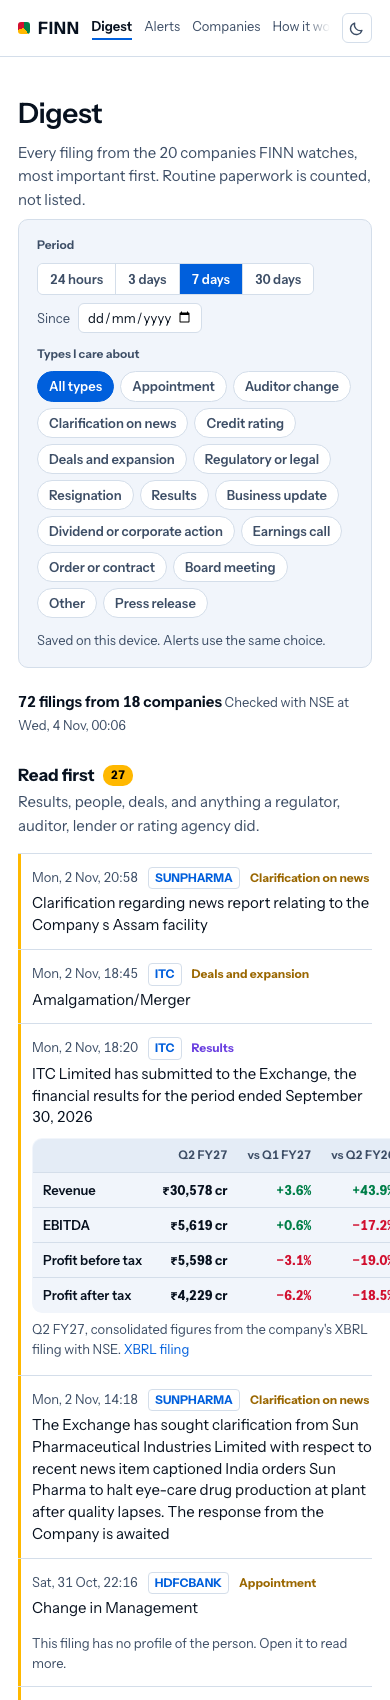
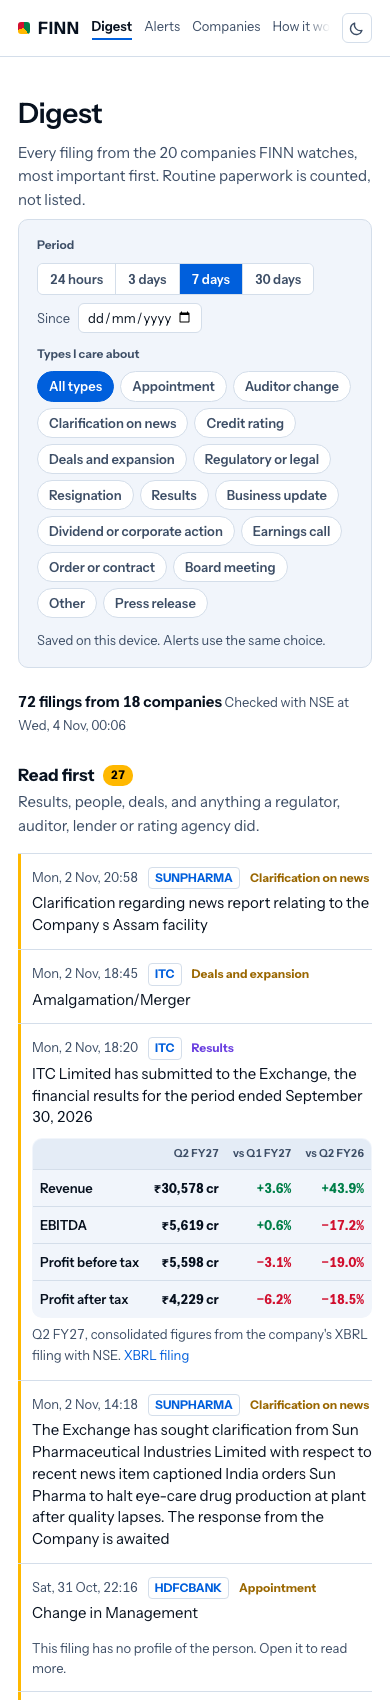
Add README, covering note, screenshots and the exported build conversation
- README: what FINN is, a two-minute phone tour, how each point of the brief maps to the product,
  architecture, models and cost, how to run it.
- docs/WRITEUP.md: the covering note (decisions, trade-offs, what was left out, next steps).
- scripts/export_build_history.py exports the Claude Code conversation to Markdown with secrets removed
  (values from .env and key-shaped strings); docs/build-history/ holds the export.
- How it works: the digest, your own alerts and appointee profiles, and the 2-hourly schedule, in all
  seven languages. Results card fits a phone screen.

Changed region(s): [[0.0615, 0.6547, 1.0, 0.9976], [0.7692, 0.9665, 0.8923, 0.9976], [0.6769, 0.9665, 0.7385, 0.9976]]

diff --git a/web/app/globals.css b/web/app/globals.css
@@ -1003,7 +1003,10 @@ button, input, select { font: inherit; color: inherit; }
   .qchart .chart-tick { font-size: 9.5px; }
   .co-year .spark { display: none; }
   .rules-grid { grid-template-columns: minmax(0, 1fr); }
-  .rcard th, .rcard td { padding: 9px 10px; }
+  .rcard table, .rcard.compact table { font-size: var(--s13); }
+  .rcard th, .rcard td, .rcard.compact th, .rcard.compact td { padding: 8px 7px; }
+  .rcard thead th, .rcard tbody th { white-space: normal; }
+  .rcard thead th { font-size: 11px; line-height: 1.25; }
   .site-nav { overflow-x: auto; scrollbar-width: none; flex: 1; padding-right: 16px;
     mask-image: linear-gradient(to right, #000 calc(100% - 24px), transparent); }
   .site-nav::-webkit-scrollbar { display: none; }

diff --git a/README.md b/README.md
@@ -1,0 +1,103 @@
+# FINN: Indian stocks, read for you
+
+**Live:** https://finn-six-roan.vercel.app (built for a phone; open it on one)
+
+FINN watches a 20-company NSE portfolio and tells you what changed and why it matters (push). It also checks what any
+listed company's management promised on its earnings calls against what the company later filed (pull). Every number
+and every quote links to the NSE document it came from. The model reads and copies; code computes every figure and decides every verdict.
+
+<p>
+<img src="docs/screenshots/digest.png" width="200" alt="Digest: filings ranked, with a results card">
+<img src="docs/screenshots/alerts.png" width="200" alt="Alerts with your own thresholds">
+<img src="docs/screenshots/ledger.png" width="200" alt="Promise ledger for Dixon Technologies">
+<img src="docs/screenshots/results.png" width="200" alt="Results card: Revenue, EBITDA, PBT, PAT vs last quarter and a year ago">
+</p>
+
+## Two minutes on a phone
+
+1. **[Digest](https://finn-six-roan.vercel.app/digest?w=7)**: every filing from the 20 companies for the window you pick (24 hours by default).
+   - "Read first" holds results, people changes, deals, and anything a regulator, auditor, lender or rating agency did.
+   - A results filing opens Revenue, EBITDA, PBT and PAT against the quarter before and a year before.
+   - A management change shows who the person is, read from the filing itself.
+   - Routine paperwork is only counted.
+2. **[Alerts](https://finn-six-roan.vercel.app/alerts)**: set your own "unusual". Defaults are a ±5% day and 2× the 50-day volume. The list recomputes instantly over the last 20 sessions.
+3. **[Dixon Technologies, Promises](https://finn-six-roan.vercel.app/c/DIXON#promises)**: 186 things management said they would do, across six calls, each with a verdict.
+   - Open one to see the quote, the transcript page, every later mention, and the XBRL figure it was checked against.
+   - On the **Price** tab, tap a call marker on the chart to see what was promised on that call.
+4. **Any other company**: search, for example `HDFCBANK` (no ledger yet). Prices, results, the results card and filings are there. **Analyse** starts a ledger run for any NSE main-board company (10 to 15 minutes, one at a time).
+
+## What maps to the brief
+
+| Brief | In FINN |
+|---|---|
+| Portfolio of 15–20 | 20 companies across sectors and sizes ([finn/portfolio.py](finn/portfolio.py)), banks and an NBFC included |
+| Ad-hoc research on 3–5, generalising to any ticker | Ledgers for ASIANPAINT, DIXON, KPITTECH, SUPREMEIND, TCS. Analyse runs the same engine on any NSE symbol through a GitHub Actions dispatch |
+| Push: windowed digest | `/digest`: 24 h, 3 d, 7 d, 30 d or since a date; priority fixed by tag; routine collapsed |
+| Push: triggered alerts, configurable | `/alerts`: your ±X% and N× volume, plus filing types you choose. Email and WhatsApp delivery is built ([docs/ALERTS_SETUP.md](docs/ALERTS_SETUP.md)); it switches on once the sending accounts exist |
+| Results: Revenue, EBITDA, PBT, PAT, QoQ and YoY | From the company's XBRL filing, on the company page and under every results filing in the digest |
+| Management change: who is the incoming person | The SEBI Reg 30 "brief profile" from the filing itself (not LinkedIn) |
+| Pull: narrative vs numbers, last four quarters | The promise ledger: guidance from six calls vs XBRL actuals, verdicts by rule |
+| Pull: financial snapshot, trajectory, guidance | Key numbers, 8–9 quarters of bars, "Coming up" (dated promises falling due) |
+| Primary sources only | NSE transcripts, XBRL, bhavcopy, announcements. No news, broker notes or model knowledge |
+| Mobile-first | Built at 390 px first; 7 Indian languages; light and dark |
+
+## How it works
+
+```
+NSE (plain HTTP, ≤1 request/s, every download cached)
+  ├─ bhavcopy (prices, volume, delivery)     ┐
+  ├─ corporate announcements + PDFs          ├─ finn/data/      one client per source
+  ├─ XBRL results (integrated + legacy)      │
+  └─ earnings-call transcripts               ┘
+        │
+        ├─ finn/market/   prices, key numbers, results card, filing tags + priority,
+        │                 big moves, new-appointee profiles                  (no model, except profile layout)
+        └─ finn/ledger/   candidates → classify → thread → resolve → verdict (model classifies and copies;
+                          code checks every quote verbatim, computes every actual, decides every verdict)
+        │
+   finn/llm.py   the only place a model is called: routing, disk cache, strict JSON, cost log
+        │
+GitHub Actions   every 2 h 09:00–21:00 IST + 01:00 IST: rebuild market data, rerun one stale ledger,
+                 commit static JSON, send alerts       │   "Analyse" dispatches ledger.yml for any symbol
+        │
+web/ (Next.js on Vercel, Mumbai)   reads the committed JSON; no database (Upstash only for alert sign-ups)
+```
+
+**Models and cost.** Every model step uses Gemini 3.1 Flash-Lite:
+- classifying sentences;
+- linking promises across calls;
+- reading later mentions;
+- writing one-line explanations;
+- laying out profiles.
+
+The job is narrow (sort and copy, never compute), so a stronger model would add cost without adding accuracy. Every call is cached on disk by a hash of the prompt and schema. So far: 499 calls, 178 of them cache hits; ₹69 at paid rates; ₹0 on the free tier. See `python -c "from finn import llm; print(llm.cost_summary())"`.
+
+**Guards that matter most:**
+- A promise quote must appear word for word in the transcript.
+- Every number in a target must appear in its quote.
+- An actual comes from a filed XBRL tag or a formula over tags, with the tag and URL kept.
+- A profile field must appear word for word in the filing.
+
+Anything that fails is dropped, not repaired.
+
+## Run it
+
+```bash
+python3 -m venv .venv && .venv/bin/pip install -e '.[dev]'
+.venv/bin/python -m pytest -q                       # 155 tests, offline (recorded NSE fixtures)
+.venv/bin/python -m finn.market --portfolio --ledgers   # prices, results, filings for the portfolio
+.venv/bin/python -m finn.ledger DIXON                # a promise ledger (needs GEMINI_API_KEY in .env)
+.venv/bin/python scripts/build_web_data.py           # display-ready JSON for the site
+cd web && npm install && npm test && npm run dev     # 23 node tests; site on localhost:3000
+```
+
+## Repository
+
+- `finn/`: the Python engine (data clients, market data, ledger, model gateway)
+- `web/`: the site
+- `tests/`: offline tests and fixtures
+- `spikes/`: the data-source spikes that decided "NSE only, plain HTTP" ([docs/SPIKES_SUMMARY.md](docs/SPIKES_SUMMARY.md))
+- `docs/build-history/`: the Claude Code conversation the project was built in
+- `docs/WRITEUP.md`: decisions, trade-offs, what was left out, what comes next
+
+FINN shows facts from filings, not investment advice.

diff --git a/docs/WRITEUP.md b/docs/WRITEUP.md
@@ -1,0 +1,59 @@
+# FINN: covering note
+
+**Prototype:** https://finn-six-roan.vercel.app (open on a phone)
+**Repository:** https://github.com/kvaibhav23/finn
+**AI build history:** `docs/build-history/` in the repository (the full Claude Code conversation, secrets removed)
+
+This is a few days past the 1 November deadline; I used the extra time to close the gaps against the brief listed
+below rather than send something that didn't meet it.
+
+## What I built
+
+FINN is a mobile web app that reads NSE for you.
+
+**Push.**
+- **Digest:** every filing from a 20-company portfolio, for a window you choose (24 hours by default), most important first.
+  - **Ranking:** results, people changes, deals, and anything a regulator, auditor, lender or rating agency did come first. Routine paperwork is counted, not shown.
+  - **Results filings** carry Revenue, EBITDA, PBT and PAT against the previous quarter and the same quarter last year, from the company's XBRL.
+  - **Management changes** carry the appointee's profile, read from the filing.
+- **Alerts:** your own thresholds for an unusual day (±X% price, N× the 50-day volume) and the filing types you care about. Email and WhatsApp delivery is built and waits on sending accounts.
+
+**Pull.** The promise ledger answers the brief's worked example directly. FINN reads six quarters of earnings-call transcripts, keeps the forward-looking things management committed to, follows each one across calls, and checks it against filed results. Each promise gets a verdict: Kept, Missed, On track, Revised, Dropped, Pending or Unverifiable.
+
+Dixon Technologies has 186 promises. Each shows:
+- the quote;
+- the transcript page;
+- every later mention;
+- the XBRL figure it was checked against.
+
+**Analyse** runs the same engine on any NSE company.
+
+## Key decisions
+
+- **The model reads; code decides.** Gemini Flash-Lite only sorts sentences and copies words.
+  - Each quote must appear verbatim in the source, and each number in a target must appear in its quote.
+  - Actuals come from XBRL tags or formulas over them.
+  - Verdicts come from fixed rules.
+
+  This costs some recall, but every claim can be checked by clicking it, which matters more to an investor than coverage.
+- **A cheap model, used everywhere, and cached.** The task is narrow, so a bigger model buys little. 499 calls so far: ₹69 at paid rates, ₹0 on the free tier.
+- **NSE only, plain HTTP, polite.** The spikes showed every need (prices, filings, XBRL, transcripts) is served by NSE without a browser or OCR. BSE blocks plain requests, so it was left out.
+- **No server database.** GitHub Actions rebuilds the data every two hours through the day, commits static JSON, and Vercel serves it from Mumbai. Cheap, auditable (every update is a commit) and fast.
+- **Appointee profiles from the filing, not LinkedIn.** SEBI's Reg 30 disclosure already carries a "brief profile". LinkedIn's terms forbid scraping, and the filing is the primary source.
+- **No chat box.** A chat interface invites answers no one can check. FINN's interaction is: rank what changed, let you set what "unusual" means, and make every line open its evidence. It works in 7 Indian languages because the people this helps most don't all read English.
+- **No buy/sell calls.** Those need SEBI Research Analyst registration. FINN states facts and lets the investor judge.
+
+## What I left out, deliberately
+
+- **Four of the eight pull items:** business snapshot, balance sheet, cash quality, and bull vs bear. I chose depth on narrative vs numbers, which the brief values most, over breadth. Bull vs bear in particular is where a model starts writing opinion.
+- **Annual reports.** The client is built and tested (spike 06), but the ledger reads transcripts plus XBRL only. Annual-report text is the next source to add.
+- **Live prices** (they need a paid licensed feed), and **news** and **broker notes** (the brief excludes them).
+- **OCR:** scanned filings with no text layer get a link instead of a profile.
+
+## Where I'd take it next
+
+1. **Annual reports in the ledger:** capex and segment promises made in the chairman's letter, checked against the next report.
+2. **Cash quality and balance sheet** from the half-yearly XBRL (cash-flow statement, debt), with the same receipts.
+3. **Personal portfolios:** your holdings instead of a fixed 20, with alerts delivered on WhatsApp.
+4. **A promise-level push:** "management's FY27 margin target is now off track after these results", sent the evening results come out.
+5. **Evaluation at scale:** a labelled set of promises across 30 companies to measure extraction precision and recall over time (a first golden set is in `docs/golden/`).
